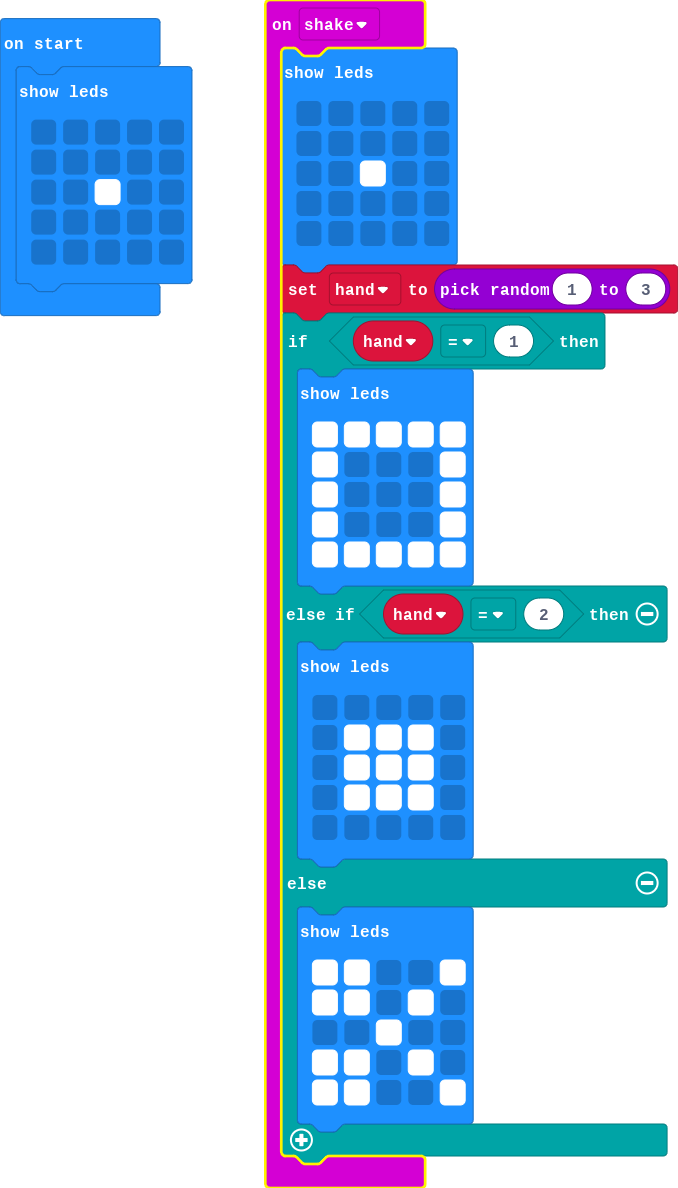
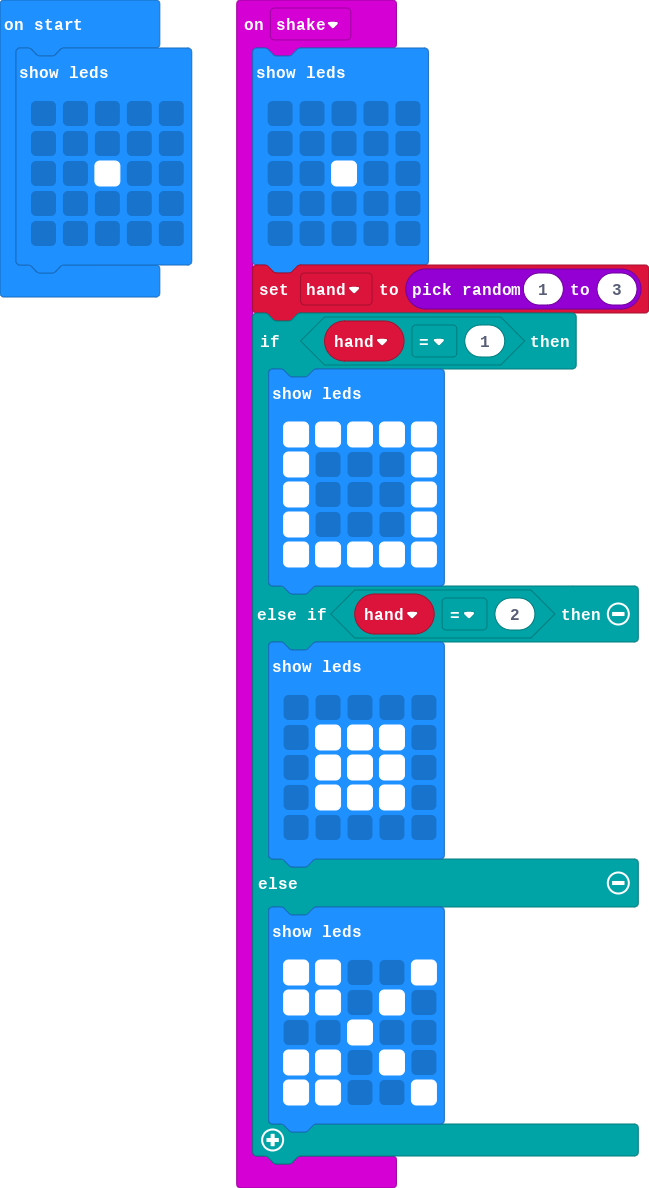
Update README.md, main.blocks

diff --git a/README.md b/README.md
@@ -1,34 +1,178 @@
-# c003-rockpaperscissors ![Build status badge](https://github.com/belmont-admin/c003-rockpaperscissors/workflows/MakeCode/badge.svg)
+# Rock Paper Scissors
 
+## Introduction @unplugged
 
+![Cartoon of the Rock Paper Scissors game](/static/mb/projects/a4-motion.png)
 
-## Use this extension
+Use the accelerometer and the screen to build a **Rock Paper Scissors** game that you can play with your friends!
 
-This repository can be added as an **extension** in MakeCode.
+## Step 1 @fullscreen
 
-* open https://makecode.microbit.org/
-* click on **New Project**
-* click on **Extensions** under the gearwheel menu
-* search for the URL of this repository and import
+Add a ``||input:on shake||`` block to run code when you shake the @boardname@.
 
-## Edit this extension
+```blocks
+input.onGesture(Gesture.Shake, () => {
+    
+})
+```
 
-To edit this repository in MakeCode.
+## Step 2 @fullscreen
 
-* open https://makecode.microbit.org/
-* click on **Import** then click on **Import URL**
-* paste the repository URL and click import
+Add a ``hand`` variable and place the ``||variables:set hand to||`` block in the shake event.
 
-## Blocks preview
+![A animation that shows how to create a variable](/static/mb/projects/rock-paper-scissors/newvar.gif)
 
-This image shows the blocks code from the last commit in master.
-This image may take a few minutes to refresh.
+## Step 3 @fullscreen
 
-![A rendered view of the blocks](https://github.com/belmont-admin/c003-rockpaperscissors/raw/master/.makecode/blocks.png)
+Add a ``||math:pick random||`` block to pick a random number from `1` to `3` and store it in the variable named ``hand``.
 
-## Supported targets
+```blocks
+let hand = 0;
+input.onGesture(Gesture.Shake, () => {
+    hand = Math.randomRange(1, 3)
+})
+```
 
-* for PXT/microbit
-* for PXT/microbit
-(The metadata above is needed for package search.)
+In a later step, each of the possible numbers (`1`, `2`, or `3`) is matched to its own picture. The picture is shown on the LEDs when its matching number is picked.
 
+## Step 4 @fullscreen
+
+Place an ``||logic:if||`` block under the ``||math:pick random||`` and check whether ``hand`` is equal to ``1``. Add a ``||basic:show leds||`` block that shows a picture of a piece of paper. The number `1` will mean paper.
+
+![How to drag an if statement](/static/mb/projects/rock-paper-scissors/if.gif)
+
+```blocks
+let hand = 0;
+input.onGesture(Gesture.Shake, () => {
+    hand = Math.randomRange(1, 3)
+    if (hand == 1) {
+        basic.showLeds(`
+            # # # # #
+            # . . . #
+            # . . . #
+            # . . . #
+            # # # # #
+            `)
+    }
+})
+```
+
+## Step 5 @fullscreen
+
+Click on the **SHAKE** button in the simulator. If you try enough times, you should see a picture of paper on the screen.
+
+![Shaking a @boardname@ simulator](/static/mb/projects/rock-paper-scissors/rpsshake.gif)
+
+## Step 6 @fullscreen
+
+Click the **(+)** button to add an ``||logic:else||`` section.
+
+![Adding an else clause](/static/mb/projects/rock-paper-scissors/ifelse.gif)
+
+```blocks
+let hand = 0;
+input.onGesture(Gesture.Shake, () => {
+    hand = Math.randomRange(1, 3)
+    if (hand == 1) {
+        basic.showLeds(`
+            # # # # #
+            # . . . #
+            # . . . #
+            # . . . #
+            # # # # #
+            `)
+    } else {
+ 
+    }
+})
+```
+
+## Step 7 @fullscreen
+
+Add a ``||basic:show leds||`` block inside the ``||logic:else||``. Make a picture of a scissors in the LEDs.
+
+```blocks
+let hand = 0;
+input.onGesture(Gesture.Shake, () => {
+    hand = Math.randomRange(1, 3)
+    if (hand == 1) {
+        basic.showLeds(`
+            # # # # #
+            # . . . #
+            # . . . #
+            # . . . #
+            # # # # #
+            `)
+    } else {
+        basic.showLeds(`
+            # # . . #
+            # # . # .
+            . . # . .
+            # # . # .
+            # # . . #
+            `)
+    }
+})
+```
+
+## Step 8 @fullscreen
+
+Click the ``+`` button again to add an ``||logic:else if||`` section. Now, add a conditional block for ``||logic:hand = 2||`` to the condition in ``||logic:else if||``. Since ``hand`` can only be `1`, `2`, or `3`, your code is covering all possible cases!
+
+![Adding an else if clause](/static/mb/projects/rock-paper-scissors/ifelseif.gif)
+
+## Step 9 @fullscreen
+
+Get one more ``||basic:show leds||`` block and put it in the ``||logic:else if||``. Make a picture of a rock in the LEDs.
+
+```blocks
+let hand = 0;
+input.onGesture(Gesture.Shake, () => {
+    hand = Math.randomRange(1, 3)
+    if (hand == 1) {
+        basic.showLeds(`
+            # # # # #
+            # . . . #
+            # . . . #
+            # . . . #
+            # # # # #
+            `)
+    } else if (hand == 2) {
+        basic.showLeds(`
+            . . . . .
+            . # # # .
+            . # # # .
+            . # # # .
+            . . . . .
+            `)
+    } else {
+        basic.showLeds(`
+            # # . . #
+            # # . # .
+            . . # . .
+            # # . # .
+            # # . . #
+            `)
+    }
+})
+```
+
+## Step 10 @fullscreen
+
+Click on the **SHAKE** button in the simulator and check to see that each image is showing up.
+
+![Shaking a @boardname@ simulator](/static/mb/projects/rock-paper-scissors/rpssim3.gif)
+
+## Step 11 @fullscreen
+
+If you have a @boardname@, click on ``|Download|`` and follow the instructions to get the code
+onto your @boardname@. Your game is ready! Gather your friends and play Rock Paper Scissors!
+
+![A @boardname@ in a hand](/static/mb/projects/rock-paper-scissors/hand.jpg)
+
+## Step 12 @fullscreen
+
+You might like to think about how you could improve your game:
+
+1. By displaying something when you shake and before you display the rock, paper of scissors. This is so you can be sure you have triggered the shake.
+2. By using the a button to keep track of the number of times you win and display W when you get to 10 wins.
